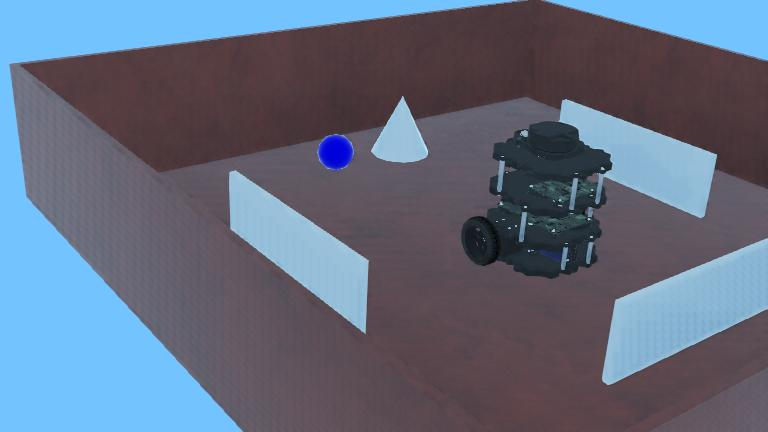
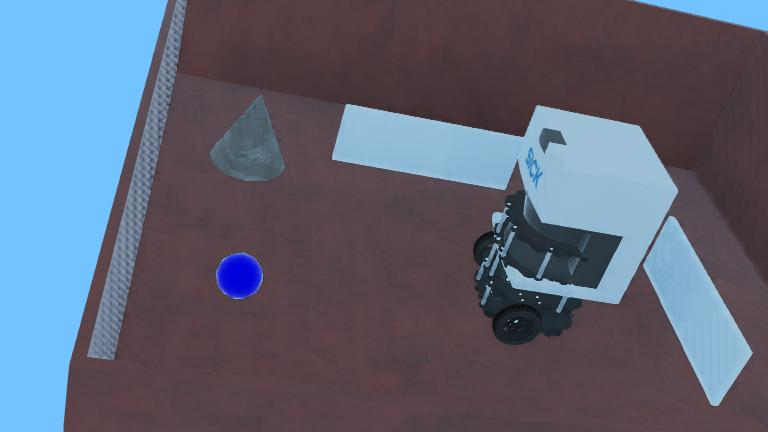
Find dynamic object while moving

diff --git a/Webot/controllers/computer_vision/computer_vision.py b/Webot/controllers/computer_vision/computer_vision.py
@@ -1,4 +1,4 @@
-from controller import Robot, Display
+from controller import Robot, Display, Keyboard
 from Basic_Pixel_Processing import gray_scale, gaussian_blur, edge_detection, hysteresis, normalize
 from Blob import blobize
 from optical_flow import optical_flow
@@ -16,6 +16,19 @@ wheel_radius = 0.033
 # Initialize motors
 left_motor = robot.getDevice('left wheel motor')
 right_motor = robot.getDevice('right wheel motor')
+left_motor.setPosition(float('inf'))
+right_motor.setPosition(float('inf'))
+left_motor.setVelocity(0.0)
+right_motor.setVelocity(0.0)
+
+# Initialize lidar
+lidar = robot.getDevice("SickLms291") 
+lidar.enable(timestep)
+lidar.enablePointCloud()
+
+# Enable Keyboard
+keyboard = robot.getKeyboard()
+keyboard.enable(timestep)
 
 # Setup Position Sensor
 left_ps = robot.getDevice("left wheel sensor")
@@ -50,7 +63,84 @@ display = robot.getDevice("display")
 
 print("Vision system started...")
 
-MOVING_FLOW_THRESHOLD = 0.5
+MOVING_FLOW_THRESHOLD = 0.4
+MIN_DEPTH_METERS = 0.10
+MAX_COMPENSATED_FLOW = 5.0
+MAX_WHEEL_SPEED = 1.0
+TURN_WHEEL_SPEED = 3.14/8
+
+
+def keyboard_drive_command(keyboard_device):
+    left_speed = 0.0
+    right_speed = 0.0
+
+    key = keyboard_device.getKey()
+    while key != -1:
+        if key in (ord('W'), ord('w'), Keyboard.UP):
+            left_speed = MAX_WHEEL_SPEED
+            right_speed = MAX_WHEEL_SPEED
+        elif key in (ord('S'), ord('s'), Keyboard.DOWN):
+            left_speed = -MAX_WHEEL_SPEED
+            right_speed = -MAX_WHEEL_SPEED
+        elif key in (ord('A'), ord('a'), Keyboard.LEFT):
+            left_speed = -TURN_WHEEL_SPEED
+            right_speed = TURN_WHEEL_SPEED
+        elif key in (ord('D'), ord('d'), Keyboard.RIGHT):
+            left_speed = TURN_WHEEL_SPEED
+            right_speed = -TURN_WHEEL_SPEED
+        elif key == ord(' '):
+            left_speed = 0.0
+            right_speed = 0.0
+
+        key = keyboard_device.getKey()
+
+    return left_speed, right_speed
+
+
+def estimate_forward_depth(lidar_device):
+    ranges = np.asarray(lidar_device.getRangeImage(), dtype=np.float32)
+    if ranges.size == 0:
+        return 1.0
+
+    max_range = float(lidar_device.getMaxRange())
+
+    center_start = ranges.size // 3
+    center_end = (2 * ranges.size) // 3
+    center_ranges = ranges[center_start:center_end]
+
+    valid_center = (
+        np.isfinite(center_ranges)
+        & (center_ranges > MIN_DEPTH_METERS)
+        & (center_ranges < max_range)
+    )
+    if np.any(valid_center):
+        return float(np.median(center_ranges[valid_center]))
+
+    valid_all = np.isfinite(ranges) & (ranges > MIN_DEPTH_METERS) & (ranges < max_range)
+    if np.any(valid_all):
+        return float(np.median(ranges[valid_all]))
+
+    return 1.0
+
+
+def estimate_ego_flow(vx, wz, depth_z, dt, u_grid, v_grid, fx, fy):
+    depth_z = max(float(depth_z), MIN_DEPTH_METERS)
+
+    u_dot = (-(vx * fx) / depth_z) + (wz * v_grid)
+
+    translation_v = np.zeros_like(v_grid, dtype=np.float32)
+    valid_u = np.abs(u_grid) >= 1.0
+    translation_v[valid_u] = (
+        -(vx * fy * v_grid[valid_u]) / (depth_z * u_grid[valid_u])
+    )
+    v_dot = translation_v - (wz * u_grid)
+
+    ego_flow = np.zeros((height, width, 2), dtype=np.float32)
+    ego_flow[:, :, 0] = u_dot * dt
+    ego_flow[:, :, 1] = v_dot * dt
+    return ego_flow
+
+
 # --- Setup ---
 # Wait for the first simulation step to get camera data
 robot.step(timestep)
@@ -70,7 +160,7 @@ gray_prev_frame = gray_scale(prev_frame_arr, method='luminosity') # Convert to G
 blurred_prev_frame = gaussian_blur(gray_prev_frame) # Apply Gaussian Blur
 edges_prev_frame = edge_detection(blurred_prev_frame) # Perform Edge Detection
 normalized_prev_frame = normalize(edges_prev_frame) # Normalize edges to range 0-255 for hysteresis
-hysteresis_prev_frame = hysteresis(normalized_prev_frame, weak=30, strong=100) # Apply Hysteresis Thresholding
+hysteresis_prev_frame = hysteresis(normalized_prev_frame, weak=60, strong=100) # Apply Hysteresis Thresholding
 
 prev_frame_blobs = blobize(prev_frame_arr,hysteresis_prev_frame)
 
@@ -92,6 +182,10 @@ def contains_pixels(blob, array):
 # get initial simulation time
 prev_time = robot.getTime()
 
+u_axis = np.arange(width, dtype=np.float32) - ((width - 1) / 2.0)
+v_axis = np.arange(height, dtype=np.float32) - ((height - 1) / 2.0)
+u_grid, v_grid = np.meshgrid(u_axis, v_axis)
+
 # --- Main Loop ---
 while robot.step(timestep) != -1:
 
@@ -99,6 +193,8 @@ while robot.step(timestep) != -1:
     current_time = robot.getTime()
     dt = current_time - prev_time
     prev_time = current_time
+    if dt <= 0:
+        continue
 
     # Obtain initial wheel encoder values
     if first_step:
@@ -114,9 +210,12 @@ while robot.step(timestep) != -1:
     dr = (right_ps_current - right_ps_last)
 
     vx = (dl + dr) * wheel_radius / (2 * dt)
+    left_ps_last = left_ps_current
+    right_ps_last = right_ps_current
 
     # obtain wz from gyro
     current_rz_velocity = gyro.getValues()[2]
+    depth_z = estimate_forward_depth(lidar)
 
     # --- Capture ---
     raw_image = camera.getImage()
@@ -138,11 +237,14 @@ while robot.step(timestep) != -1:
 
     # --- Optical Flow ---
     flow = optical_flow(gray_prev_frame, gray_current_frame, window_size=[7,9,12], max_flow=5)
+    ego_flow = estimate_ego_flow(vx, current_rz_velocity, depth_z, dt, u_grid, v_grid, f_x, f_y)
+    compensated_flow = flow - ego_flow
+    np.clip(compensated_flow, -MAX_COMPENSATED_FLOW, MAX_COMPENSATED_FLOW, out=compensated_flow)
 
     processed_img = current_frame_arr.copy()
 
     for blob in current_frame_blobs:
-        blob.update_flow_from_field(flow)
+        blob.update_flow_from_field(compensated_flow)
         if np.hypot(blob.avg_u, blob.avg_v) > MOVING_FLOW_THRESHOLD:
             for x, y in blob.pixels:
                 if 0 <= x < width and 0 <= y < height:
@@ -171,6 +273,12 @@ while robot.step(timestep) != -1:
     
     # CRITICAL: Delete the image reference to free memory
     display.imageDelete(ir)
+
+    l_speed, r_speed = keyboard_drive_command(keyboard)
+
+    left_motor.setVelocity(l_speed)
+    right_motor.setVelocity(r_speed)
+
 
     # Maintain ~30 FPS
     if time.time() - t < 1/30:
